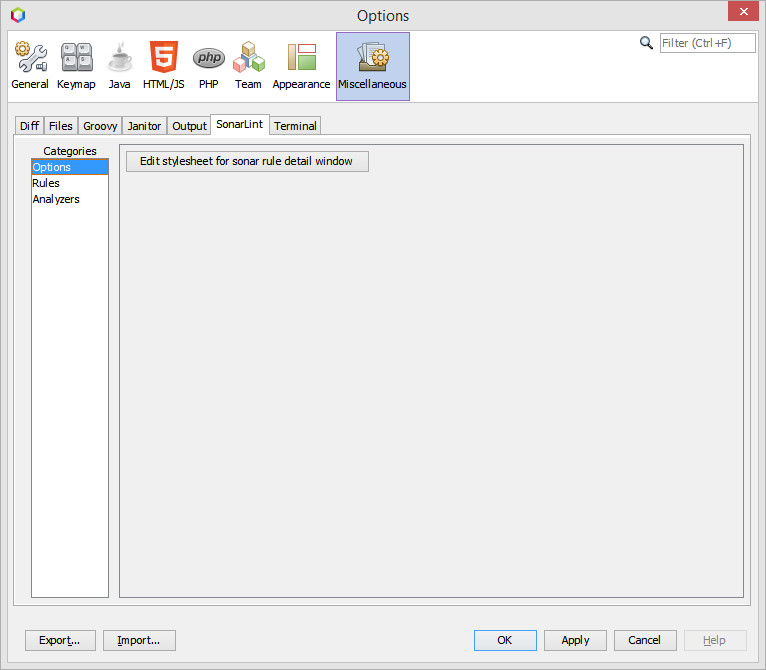
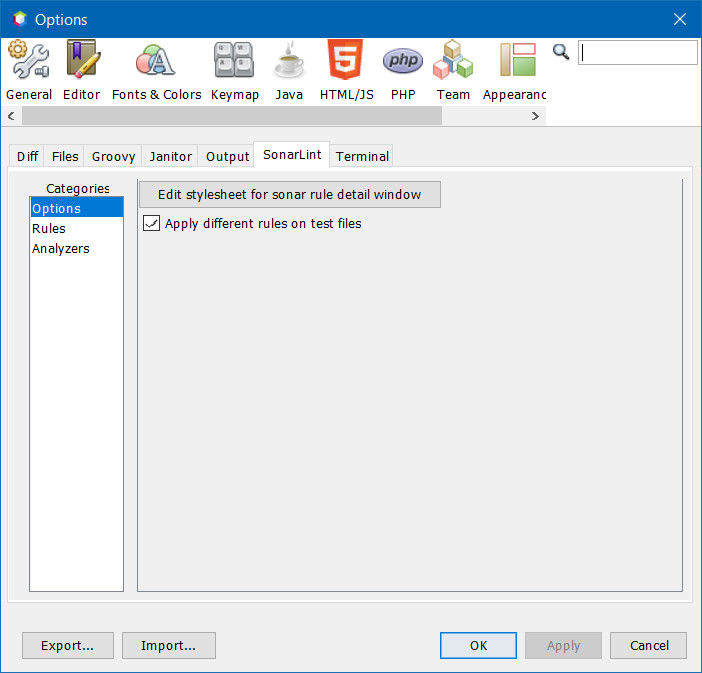
Enable or disabled test rules on test files

Changed region(s): [[0.0, 0.0, 1.0, 1.0]]

diff --git a/src/main/java/com/github/philippefichet/sonarlint4netbeans/SonarLintPanel.java b/src/main/java/com/github/philippefichet/sonarlint4netbeans/SonarLintPanel.java
@@ -21,6 +21,7 @@ package com.github.philippefichet.sonarlint4netbeans;
 
 import java.awt.BorderLayout;
 import java.awt.FlowLayout;
+import java.awt.event.ItemEvent;
 import java.awt.event.KeyAdapter;
 import java.awt.event.KeyEvent;
 import java.awt.event.MouseAdapter;
@@ -33,7 +34,9 @@ import java.util.List;
 import java.util.Map;
 import java.util.Optional;
 import javax.swing.BoxLayout;
+import static javax.swing.BoxLayout.Y_AXIS;
 import javax.swing.JButton;
+import javax.swing.JCheckBox;
 import javax.swing.JComboBox;
 import javax.swing.JLabel;
 import javax.swing.JPanel;
@@ -60,6 +63,7 @@ public final class SonarLintPanel extends javax.swing.JPanel {
     private final SonarLintOptionsPanelController controller;
 
     private final Map<RuleKey, Boolean> ruleKeyChanged = new HashMap<>();
+    private Boolean applyDifferentRulesOnTestFiles = null;
     private DefaultTableModel analyzerDefaultTableModel = new DefaultTableModel();
 
     private SonarLintRuleTableModel rulesDefaultTableModel = new SonarLintRuleTableModel();
@@ -137,11 +141,12 @@ public final class SonarLintPanel extends javax.swing.JPanel {
     private void initOptionsPanel()
     {
         optionPanel.removeAll();
-        FlowLayout layout = new FlowLayout(FlowLayout.LEFT);
-        JPanel container = new JPanel(layout);
+        JPanel container = new JPanel();
+        BoxLayout layout = new BoxLayout(container, Y_AXIS);
+        container.setLayout(layout);
+        SonarLintOptions sonarlintOptions = Lookup.getDefault().lookup(SonarLintOptions.class);
         JButton open = new JButton("Edit stylesheet for sonar rule detail window");
         open.addActionListener((l) -> {
-            SonarLintOptions sonarlintOptions = Lookup.getDefault().lookup(SonarLintOptions.class);
             DataObject d;
             try {
                 d = DataObject.find(sonarlintOptions.getSonarLintDetailsStyle());
@@ -159,6 +164,12 @@ public final class SonarLintPanel extends javax.swing.JPanel {
             }
         });
         container.add(open);
+        JCheckBox applyTestRules = new JCheckBox("Use other rules on test files", sonarlintOptions.applyDifferentRulesOnTestFiles());
+        applyTestRules.addItemListener(e -> {
+            controller.changed();
+            applyDifferentRulesOnTestFiles = e.getStateChange() == ItemEvent.SELECTED;
+        });
+        container.add(applyTestRules);
         optionPanel.add(container);
     }
     
@@ -283,6 +294,7 @@ public final class SonarLintPanel extends javax.swing.JPanel {
     }
 
     void store() {
+        SonarLintOptions sonarLintOptions = Lookup.getDefault().lookup(SonarLintOptions.class);
         SonarLintEngine sonarLintEngine = Lookup.getDefault().lookup(SonarLintEngine.class);
         List<RuleKey> ruleKeysEnable = new ArrayList<>();
         List<RuleKey> ruleKeysDisable = new ArrayList<>();
@@ -293,7 +305,9 @@ public final class SonarLintPanel extends javax.swing.JPanel {
                 ruleKeysDisable.add(ruleKey);
             }
         });
-
+        if (sonarLintOptions != null && applyDifferentRulesOnTestFiles != null) {
+            sonarLintOptions.useDifferentRulesOnTestFiles(applyDifferentRulesOnTestFiles);
+        }
         sonarLintEngine.excludeRuleKeys(ruleKeysDisable);
         sonarLintEngine.includeRuleKeys(ruleKeysEnable);
     }

diff --git a/src/main/java/com/github/philippefichet/sonarlint4netbeans/SonarLintUtils.java b/src/main/java/com/github/philippefichet/sonarlint4netbeans/SonarLintUtils.java
@@ -105,6 +105,9 @@ public final class SonarLintUtils {
             return Collections.emptyList();
         }
 
+        SonarLintOptions sonarlintOptions = Lookup.getDefault().lookup(SonarLintOptions.class);
+        boolean useTestRules = sonarlintOptions == null || sonarlintOptions.applyDifferentRulesOnTestFiles();
+
         String sonarLintHome = System.getProperty("user.home") + File.separator + ".sonarlint4netbeans";
         List<Issue> issues = new ArrayList<>();
         Collection<RuleDetails> allRuleDetails = sonarLintEngine.getAllRuleDetails();
@@ -125,11 +128,12 @@ public final class SonarLintUtils {
         }
         Path path = toFile.toPath();
         List<ClientInputFile> files = new ArrayList<>();
-        files.add(new FSClientInputFile(
+        boolean applyTestRules = useTestRules && SonarLintUtils.isTest(fileObject);
+       files.add(new FSClientInputFile(
             contentToAnalyze == null ? new String(Files.readAllBytes(path)) : contentToAnalyze,
             path.toAbsolutePath(),
             path.toFile().getName(),
-            SonarLintUtils.isTest(fileObject),
+            applyTestRules,
             FileEncodingQuery.getEncoding(fileObject))
         );
 

diff --git a/src/main/java/com/github/philippefichet/sonarlint4netbeans/SonarLintOptions.java b/src/main/java/com/github/philippefichet/sonarlint4netbeans/SonarLintOptions.java
@@ -67,6 +67,23 @@ public class SonarLintOptions {
         return NbPreferences.forModule(SonarLintOptions.class);
     }
 
+    /**
+     * Change options to apply different rules on test files
+     * @param applyDifferentRulesOnTestFiles true to apply different rules on test files, false to apply classic rules on test files
+     */
+    public void useDifferentRulesOnTestFiles(boolean applyDifferentRulesOnTestFiles) {
+        getPreferences().putBoolean("options.applyDifferentRulesOnTestFiles", applyDifferentRulesOnTestFiles);
+    }
+
+    /**
+     * Rettrieve true if analyzers may apply different rules on test files
+     * @return true if analyzers may apply different rules on test files; false to apply classic rules on test files
+     */
+    public boolean applyDifferentRulesOnTestFiles()
+    {
+        return getPreferences().getBoolean("options.applyDifferentRulesOnTestFiles", true);
+    }
+    
     private FileSystem getFileSystem()
     {
         if (createMemoryFileSystem == null)
